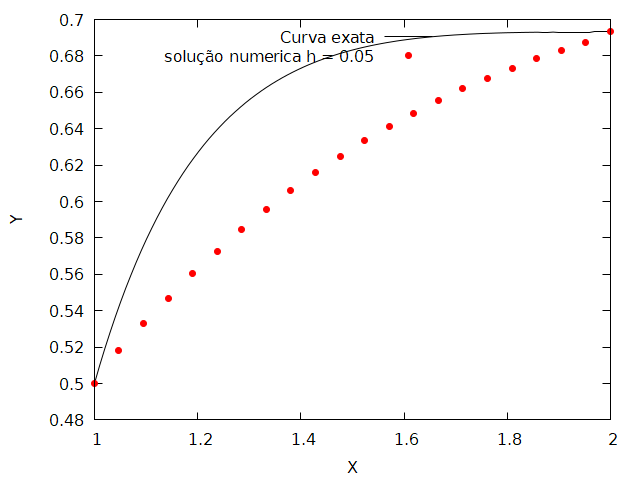
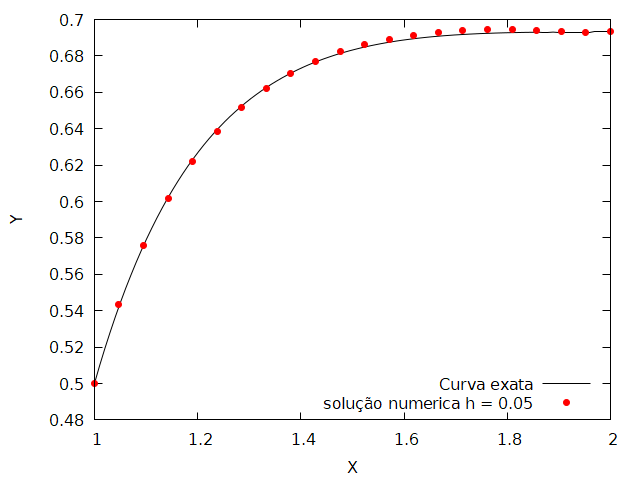
Exercícios do set 11.3 revisados

diff --git a/set11.3/exercicio4/linalg.h b/set11.3/exercicio4/linalg.h
@@ -1,0 +1,65 @@
+/*
+ * linalg.h
+ *
+ * Copyright 2018 Bruno da Silva Machado <brunosilvamachado@id.uff.br>
+ *
+ * This program is free software; you can redistribute it and/or modify
+ * it under the terms of the GNU General Public License as published by
+ * the Free Software Foundation; either version 2 of the License, or
+ * (at your option) any later version.
+ *
+ * This program is distributed in the hope that it will be useful,
+ * but WITHOUT ANY WARRANTY; without even the implied warranty of
+ * MERCHANTABILITY or FITNESS FOR A PARTICULAR PURPOSE.  See the
+ * GNU General Public License for more details.
+ *
+ * You should have received a copy of the GNU General Public License
+ * along with this program; if not, write to the Free Software
+ * Foundation, Inc., 51 Franklin Street, Fifth Floor, Boston,
+ * MA 02110-1301, USA.
+ *
+ *
+ */
+
+
+#ifndef __LINALG_H__
+#define __LINALG_H__
+
+#include <stdio.h>
+#include <stdlib.h>
+#include <string.h>
+#include <math.h>
+
+extern double **lerMatriz(const char *, int *, int *);
+
+extern void imprimeMatriz(double **, int, int );
+
+extern double determinante(double **, int );
+
+extern int triangularSuperior(double **, int, int );
+
+extern int compararMatriz(double **, double **,int, int );
+
+extern double *metodoJacobi(double **, int, double );
+
+extern double *metodoGauss(double **, int, int  );
+
+extern double **multiplicaMatriz(double **,int, int, double **, int, int );
+
+extern double **somaMatriz(double **, double **,int, int );
+
+extern double **diferencaMatriz(double **, double **,int, int );
+
+extern double **matrizNula(int, int );
+
+extern double **matrizInversa(double **, int, int );
+
+extern double **matrizIdentidade(int, int );
+
+extern double **matrizTransposta(double **, int, int );
+
+extern double normalize(double *,int );
+
+extern double *substituicaoRegressiva(double **, int );
+
+#endif //LINALG_H__

diff --git a/set11.3/exercicio5/linalg.h b/set11.3/exercicio5/linalg.h
@@ -1,0 +1,65 @@
+/*
+ * linalg.h
+ *
+ * Copyright 2018 Bruno da Silva Machado <brunosilvamachado@id.uff.br>
+ *
+ * This program is free software; you can redistribute it and/or modify
+ * it under the terms of the GNU General Public License as published by
+ * the Free Software Foundation; either version 2 of the License, or
+ * (at your option) any later version.
+ *
+ * This program is distributed in the hope that it will be useful,
+ * but WITHOUT ANY WARRANTY; without even the implied warranty of
+ * MERCHANTABILITY or FITNESS FOR A PARTICULAR PURPOSE.  See the
+ * GNU General Public License for more details.
+ *
+ * You should have received a copy of the GNU General Public License
+ * along with this program; if not, write to the Free Software
+ * Foundation, Inc., 51 Franklin Street, Fifth Floor, Boston,
+ * MA 02110-1301, USA.
+ *
+ *
+ */
+
+
+#ifndef __LINALG_H__
+#define __LINALG_H__
+
+#include <stdio.h>
+#include <stdlib.h>
+#include <string.h>
+#include <math.h>
+
+extern double **lerMatriz(const char *, int *, int *);
+
+extern void imprimeMatriz(double **, int, int );
+
+extern double determinante(double **, int );
+
+extern int triangularSuperior(double **, int, int );
+
+extern int compararMatriz(double **, double **,int, int );
+
+extern double *metodoJacobi(double **, int, double );
+
+extern double *metodoGauss(double **, int, int  );
+
+extern double **multiplicaMatriz(double **,int, int, double **, int, int );
+
+extern double **somaMatriz(double **, double **,int, int );
+
+extern double **diferencaMatriz(double **, double **,int, int );
+
+extern double **matrizNula(int, int );
+
+extern double **matrizInversa(double **, int, int );
+
+extern double **matrizIdentidade(int, int );
+
+extern double **matrizTransposta(double **, int, int );
+
+extern double normalize(double *,int );
+
+extern double *substituicaoRegressiva(double **, int );
+
+#endif //LINALG_H__

diff --git a/set11.3/exercicio4/exercicio4c.c b/set11.3/exercicio4/exercicio4c.c
@@ -18,7 +18,7 @@ double q(double x)
 
 double r(double x)
 {
-    return -2*log(x)*pow(x,-2);
+    return -2*pow(x,-2);
     //return sin(log(x))/(double)pow(x,2);
 }
 

diff --git a/set11.3/README.md b/set11.3/README.md
@@ -1,0 +1,7 @@
+# Codigos fontes 
+
+os codicos a seguir foram usados para solucionar os exercicios do cap 11 seção 3 do Bursen (metodos numericos) 9 ed 
+
+para compilar use:
+
+> gcc -L. -Wl,-rpath=. -o <_nome_do_executavel_> <_nome_arquivo.c_> -llinalg -I. -lm
